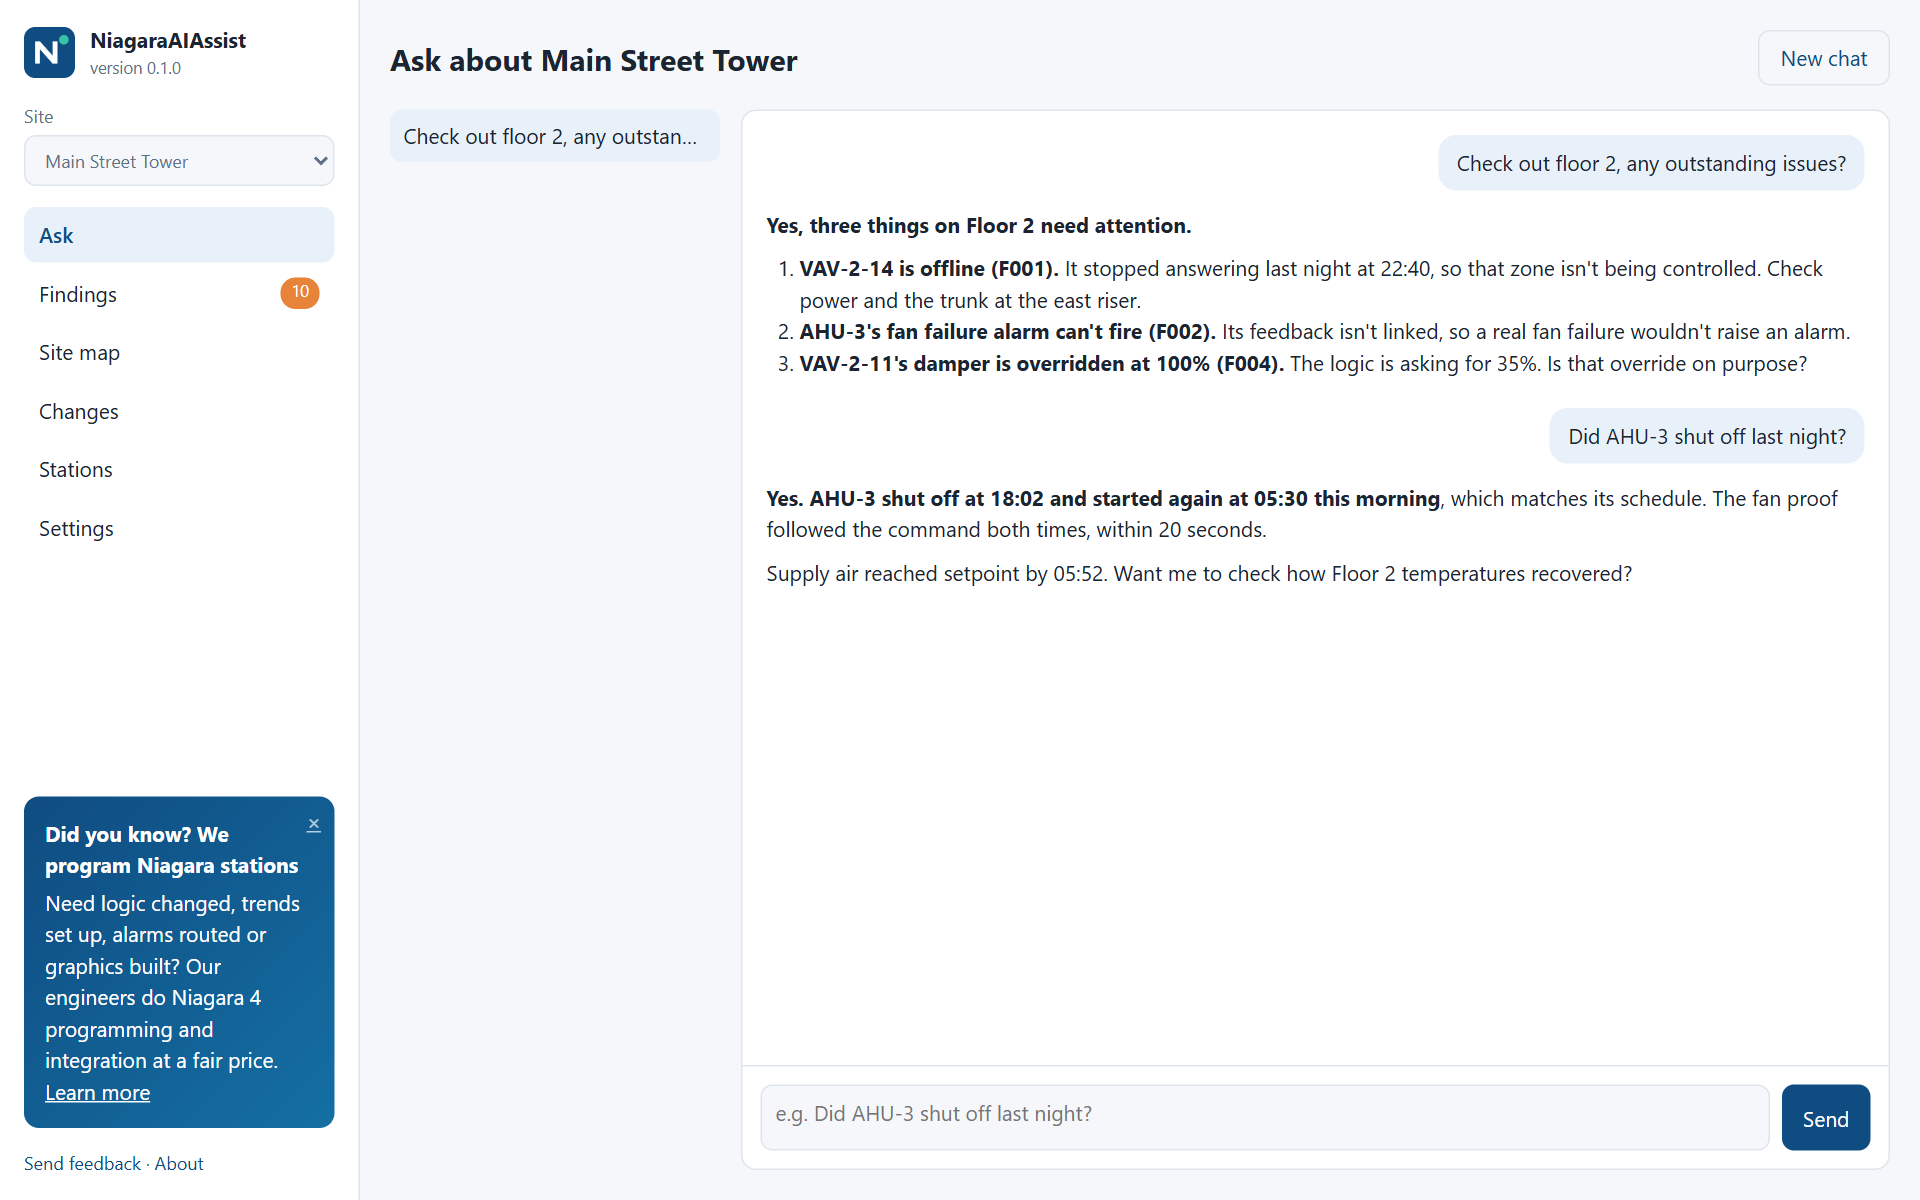
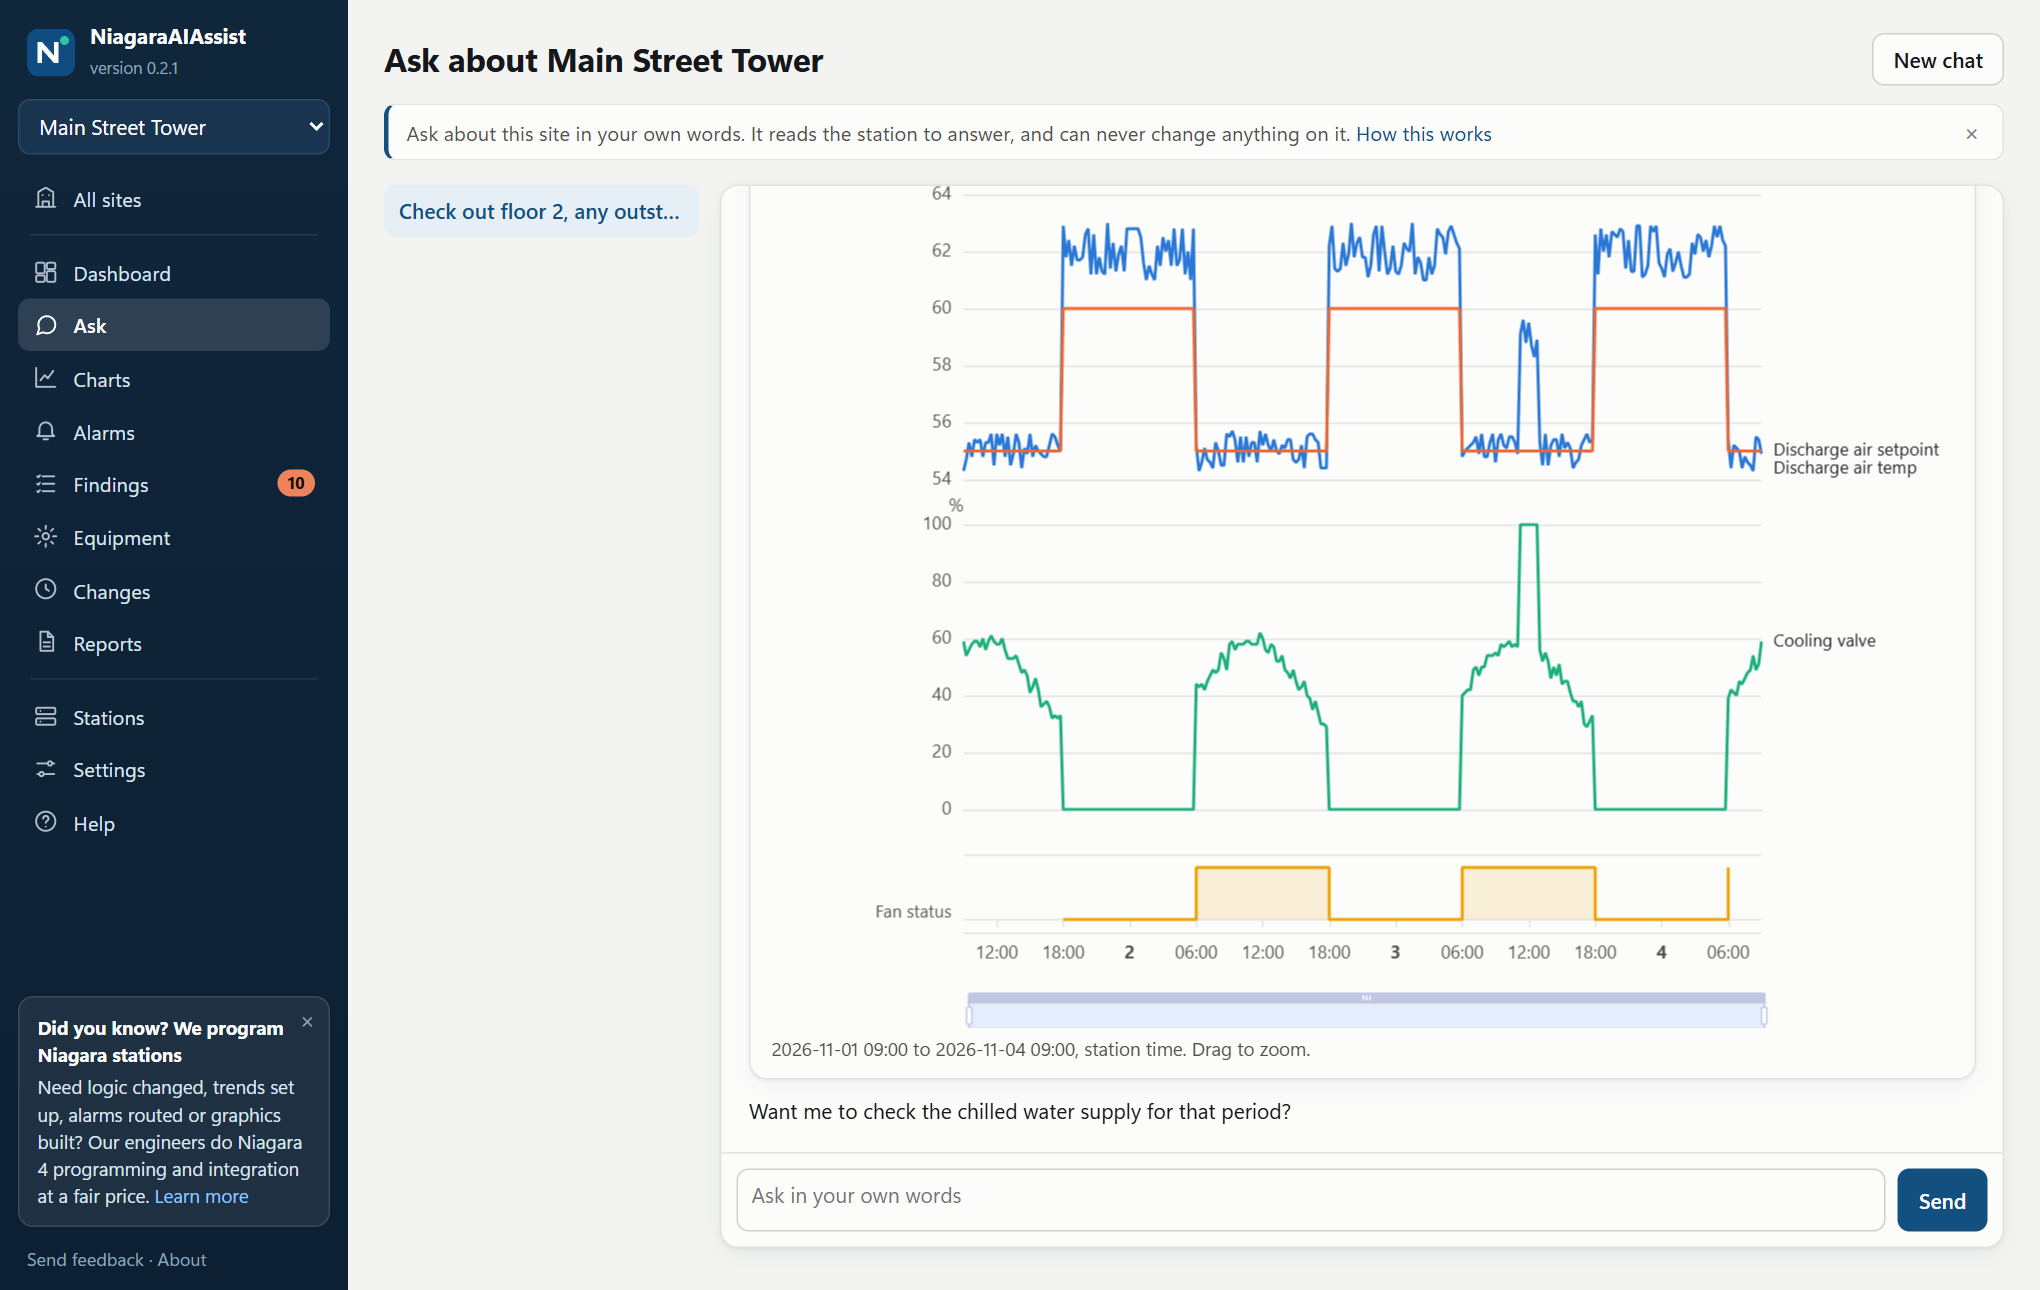
Release 0.2.2

diff --git a/README.md b/README.md
@@ -10,16 +10,32 @@ NiagaraAIAssist surveys your Niagara 4 station (JACE or Supervisor) once, keeps 
 through your own Claude Code account. It also lists findings (Critical to Info) with the fix for each, asks you when
 something might be on purpose, and remembers your answers.
 
-![Asking about a site in plain English](docs/screenshots/ask.png)
+![A site dashboard with trend charts](docs/screenshots/dashboard.png)
+
+## What it does
+
+- **Ask in plain English**, and get charts right in the answer: "show me discharge air temp vs setpoint on AHU-3".
+- **Real trend charts.** Each unit gets its own panel on one time axis, on/off points get a step panel, and alarms and
+  station changes are marked on the timeline, so you can see what happened when the line moved. Zoom in, save a chart, or
+  download it as an image or CSV.
+- **Dashboards.** Pin saved charts and live values to one page per site.
+- **Findings with the fix for each**, from trending, alarm and logic checks, plus behaviour checks on history: sensors that
+  look frozen, short cycling, hunting outputs, command and proof disagreeing, valves wide open with no temperature response.
+- **Alarm page:** worst offenders, records per day, what's unacknowledged.
+- **Equipment tools:** site map by floor and room, compare two units, fan and pump run hours, schedules, and a drawn logic diagram.
+- **Logging for points the station doesn't trend.** The app can read them every few minutes and chart them, read-only, while the PC is on.
+- **Morning report** of what changed, and a **site report** to send or print as PDF.
+- **Many sites**, grouped, with one overview.
 
 ## Screens
 
 | | |
 |---|---|
-| **Findings, with the fix for each**<br>![Findings page](docs/screenshots/findings.png) | **Equipment by floor and room**<br>![Site map page](docs/screenshots/site-map.png) |
-| **What changed, and who changed it**<br>![Changes page](docs/screenshots/changes.png) | **Your stations**<br>![Stations page](docs/screenshots/stations.png) |
+| **Charts in the conversation**<br>![Ask page](docs/screenshots/ask.png) | **Findings, with the fix for each**<br>![Findings page](docs/screenshots/findings.png) |
+| **Alarms at a glance**<br>![Alarms page](docs/screenshots/alarms.png) | **Equipment by floor and room**<br>![Site map page](docs/screenshots/site-map.png) |
+| **Morning report**<br>![Reports page](docs/screenshots/reports.png) | **What changed, and who changed it**<br>![Changes page](docs/screenshots/changes.png) |
 
-*These screens show a made-up demo site, and the conversation is a written example, not a recorded answer.*
+*These screens show a made-up demo site with made-up numbers, and the conversation is a written example, not a recorded answer.*
 
 ## Read-only, always
 
